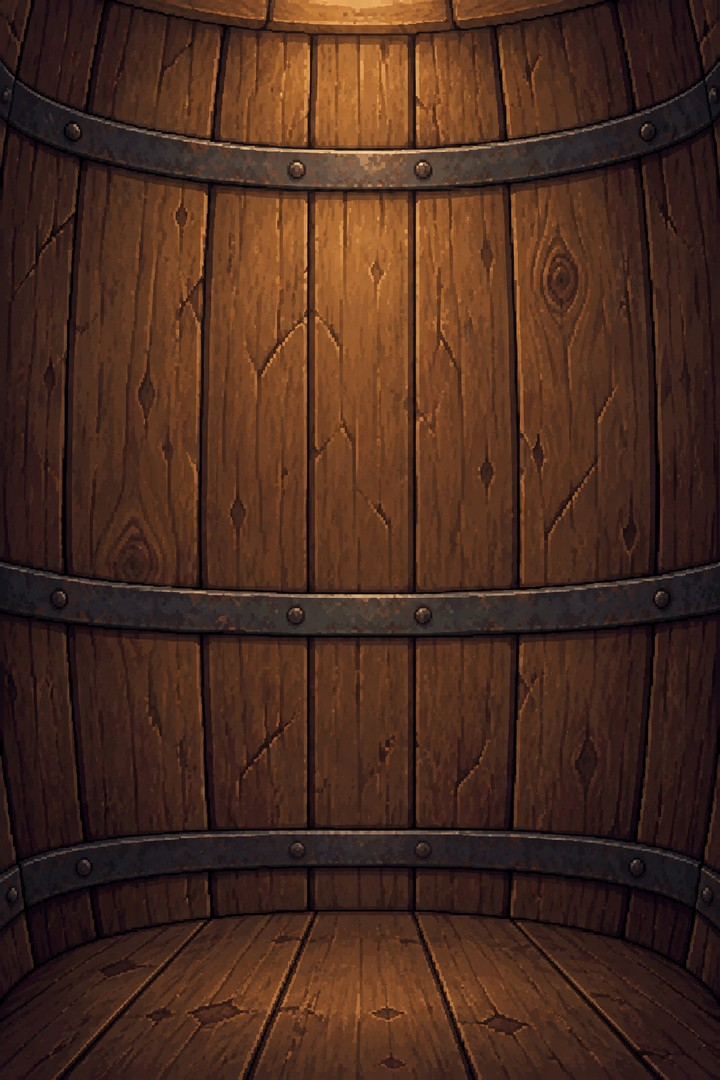
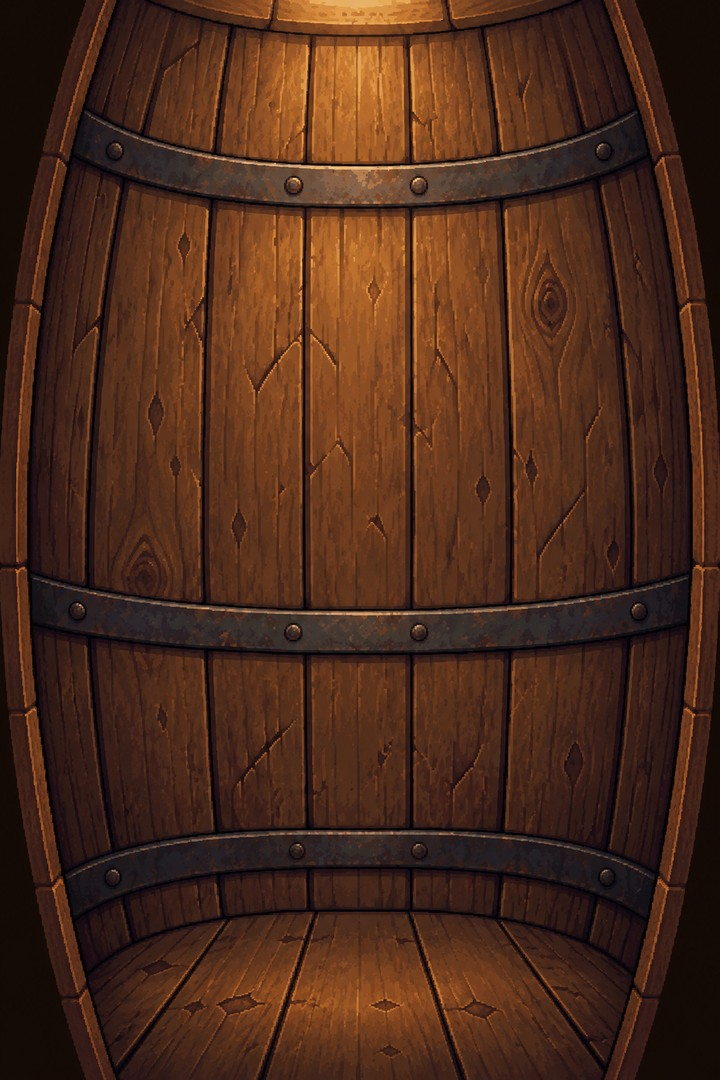
Puiutu: Fruit Merge is played inside a real barrel, with curved walls that match the art
The background is redrawn with bowed staves, and the walls follow the inner edge of its
stave rim (measured from the picture into MG_BARREL), so fruit slides along the curve.

diff --git a/life_of_puiutu_game.html b/life_of_puiutu_game.html
@@ -15590,6 +15590,17 @@ const MG_SH=MG_SHAPES.map(cs=>{                       // centroid-relative circl
 });
 const MG={ active:false, W:360, H:540, ctx:null, bodies:[], cur:0, next:0, score:0, dropX:180, dropCD:0, overSince:0, gameOver:false, objective:5, raf:null };
 function mgRandType(){ return Math.floor(Math.random()*5); }     // only drop the 5 smallest
+// The play area is the inside of the barrel in fruitmerge/barrel_interior.jpg: MG_BARREL is the
+// inner edge of its stave rim, as a fraction of the width, at 65 even heights from top to bottom
+// (measured from the art). mgWall(y) gives both inside edges at a height and their slopes dx/dy,
+// so a fruit is pushed back along the curved wall's real normal; the floor is flat.
+const MG_BARREL=[0.1590,0.1502,0.1420,0.1344,0.1271,0.1204,0.1139,0.1079,0.1021,0.0966,0.0915,0.0865,0.0819,0.0774,0.0733,0.0693,0.0656,0.0621,0.0589,0.0559,0.0532,0.0507,0.0484,0.0464,0.0446,0.0431,0.0419,0.0408,0.0401,0.0400,0.0400,0.0400,0.0400,0.0400,0.0404,0.0412,0.0423,0.0435,0.0449,0.0465,0.0483,0.0503,0.0524,0.0547,0.0572,0.0598,0.0626,0.0656,0.0689,0.0723,0.0760,0.0800,0.0844,0.0891,0.0942,0.0999,0.1061,0.1129,0.1205,0.1290,0.1385,0.1490,0.1608,0.1741,0.1890];
+function mgWall(y){
+  const n=MG_BARREL.length-1, t=Math.max(0,Math.min(n,y/MG.H*n)), i=Math.min(n-1,Math.floor(t)), f=t-i;
+  const l=(MG_BARREL[i]+(MG_BARREL[i+1]-MG_BARREL[i])*f)*MG.W, sl=(MG_BARREL[i+1]-MG_BARREL[i])*MG.W/(MG.H/n);
+  return {l, r:MG.W-l, sl, sr:-sl};
+}
+function mgDropXClamp(x,r){ const w=mgWall(mgDropY()+r); return Math.max(w.l+r+2,Math.min(w.r-r-2,x)); }
 function mgDropY(){ return 46; }
 function mgCanDrop(){ return MG.active && !MG.gameOver && MG.dropCD<=0; }
 function mgReset(){
@@ -15611,7 +15622,7 @@ function mgOpen(){
 function mgClose(){ turnLandscape(); MG.active=false; if(MG.raf)cancelAnimationFrame(MG.raf); MG.raf=null; }
 function mgDrop(){
   if(!mgCanDrop()) return;
-  const t=MG.cur, r=MG_FRUITS[t].r, x=Math.max(r+2,Math.min(MG.W-r-2,MG.dropX));
+  const t=MG.cur, r=MG_FRUITS[t].r, x=mgDropXClamp(MG.dropX,r);
   MG.bodies.push(mgBody(t, x, mgDropY()+r));
   MG.cur=MG.next; MG.next=mgRandType(); MG.dropCD=22;
 }
@@ -15695,9 +15706,12 @@ function mgPhysics(){
   // contacts, circle against circle, solved a few times over
   for(let it=0;it<6;it++){
     for(const a of MG.bodies){ if(a.sleep) continue;
-      for(const c of mgCircles(a)){                     // the box
-        if(c.x<c.r)   mgImpulse(a,null,c.x-c.r,c.y,-1,0,c.r-c.x);
-        if(c.x>W-c.r) mgImpulse(a,null,c.x+c.r,c.y, 1,0,c.x-(W-c.r));
+      for(const c of mgCircles(a)){                     // the barrel: curved staves, flat floor
+        const w=mgWall(c.y);
+        let n=Math.hypot(1,w.sl), d=(c.x-w.l)/n;          // distance to the left stave, along its normal
+        if(d<c.r){ const nx=-1/n, ny=w.sl/n; mgImpulse(a,null,c.x+nx*c.r,c.y+ny*c.r,nx,ny,c.r-d); }
+        n=Math.hypot(1,w.sr); d=(w.r-c.x)/n;
+        if(d<c.r){ const nx=1/n, ny=-w.sr/n; mgImpulse(a,null,c.x+nx*c.r,c.y+ny*c.r,nx,ny,c.r-d); }
         if(c.y>H-c.r) mgImpulse(a,null,c.x,c.y+c.r, 0,1,c.y-(H-c.r));
       }
     }
@@ -15779,7 +15793,7 @@ function mgRender(){
   else ctx.strokeStyle='rgba(220,80,60,.5)', ctx.lineWidth=2;
   ctx.setLineDash([6,6]); ctx.beginPath(); ctx.moveTo(0,line); ctx.lineTo(W,line); ctx.stroke(); ctx.setLineDash([]);
   if(!MG.gameOver){
-    const t=MG.cur, r=MG_FRUITS[t].r, x=Math.max(r+2,Math.min(W-r-2,MG.dropX));
+    const t=MG.cur, r=MG_FRUITS[t].r, x=mgDropXClamp(MG.dropX,r);
     ctx.strokeStyle='rgba(255,230,190,.35)'; ctx.lineWidth=2; ctx.setLineDash([4,8]);   // light guide on the dark barrel wood
     ctx.beginPath(); ctx.moveTo(x,mgDropY()+r); ctx.lineTo(x,H); ctx.stroke(); ctx.setLineDash([]);
     mgDrawFruit(ctx,x,mgDropY()+r,r,t);
